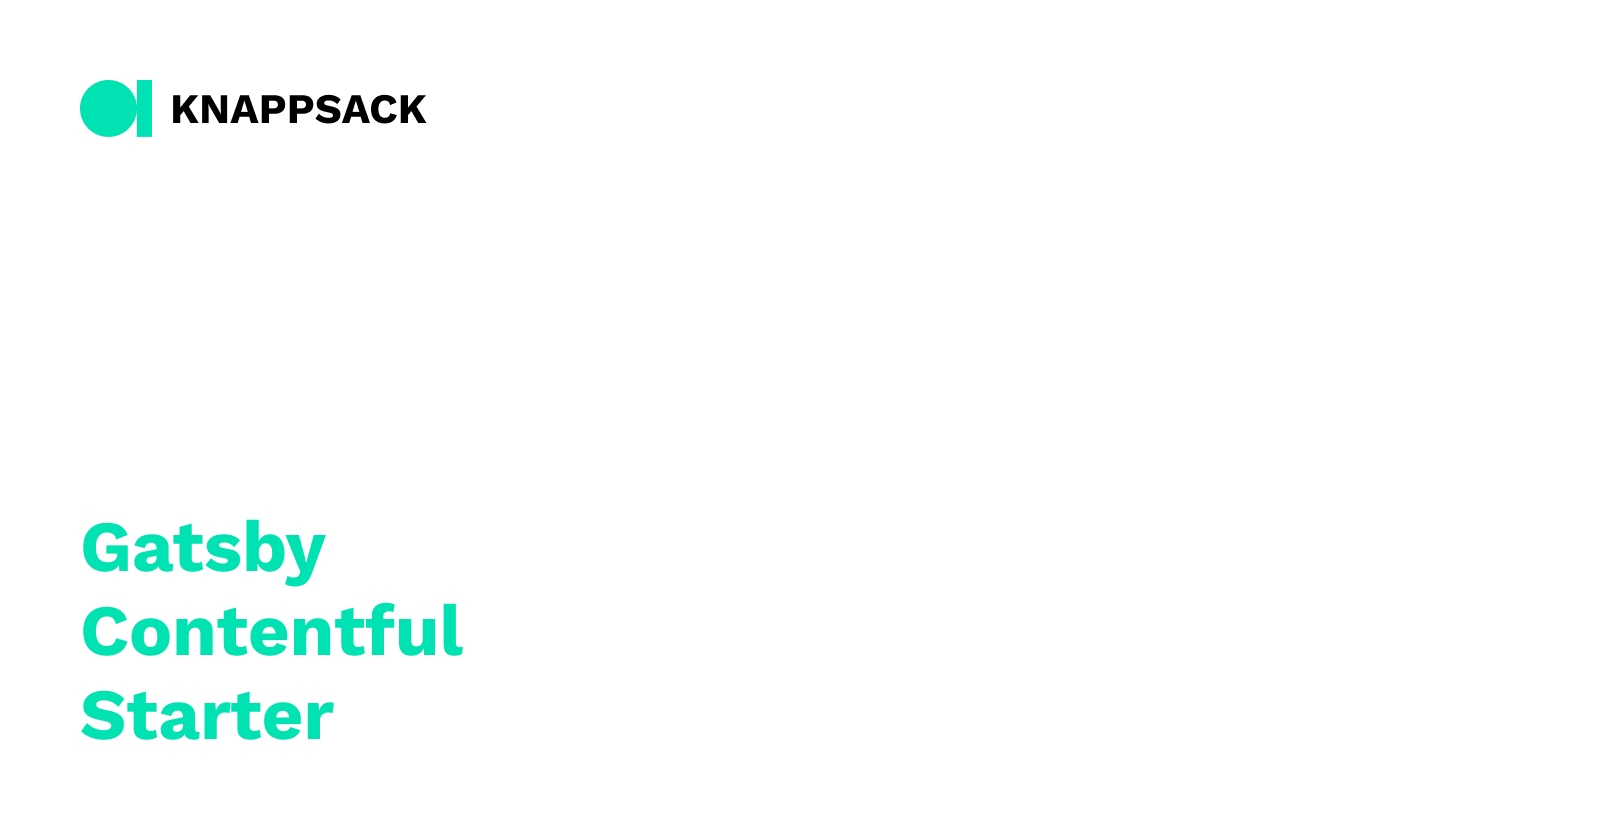
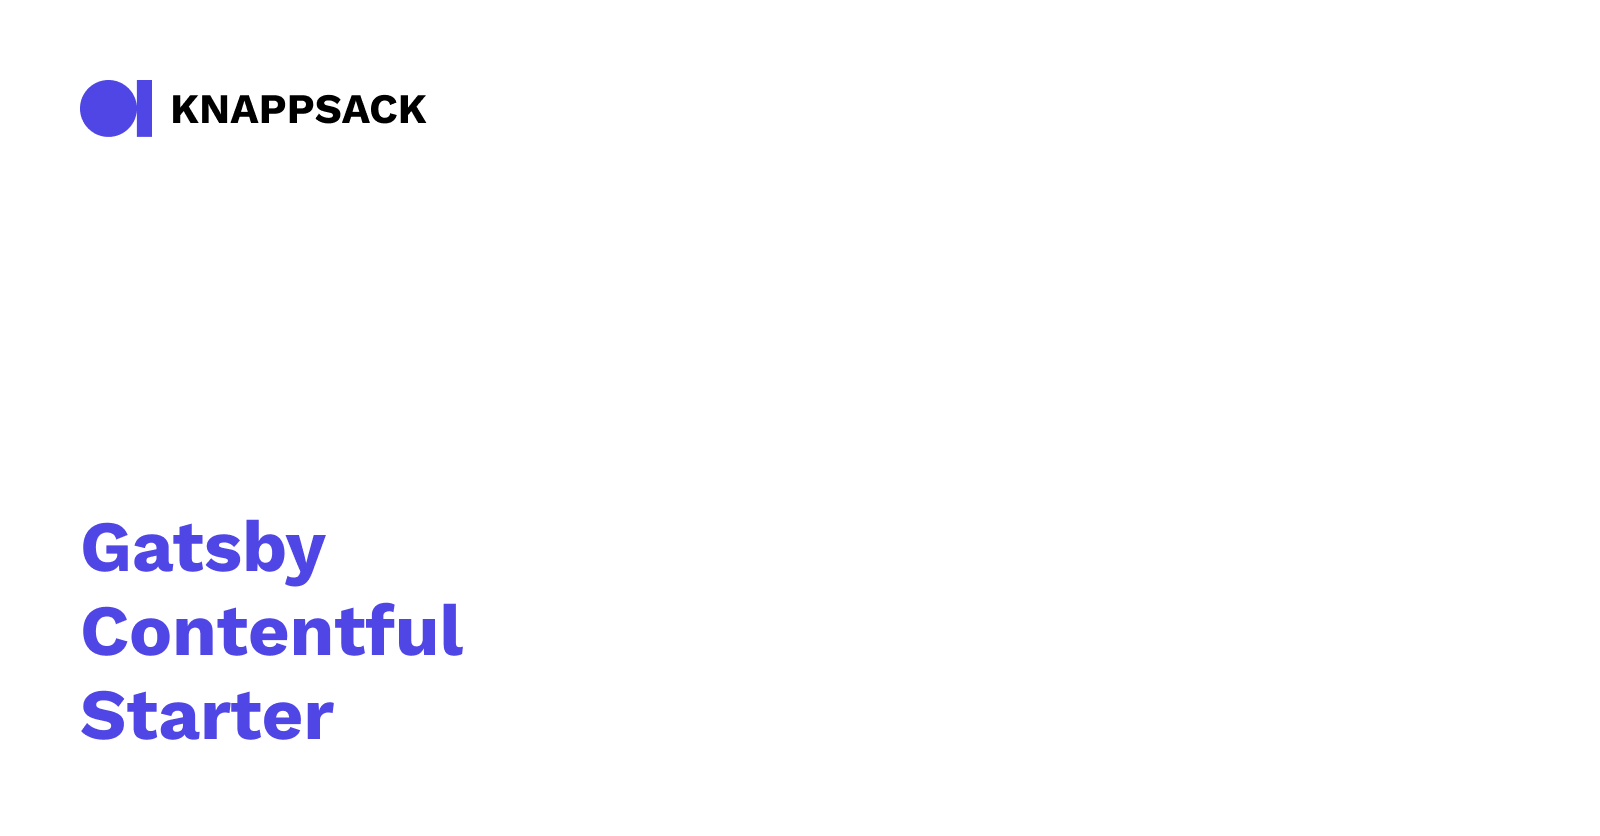
chore: update Theme colors

Changed region(s): [[0.0312, 0.622, 0.3125, 0.9019], [0.0312, 0.0933, 0.0938, 0.1866]]

diff --git a/src/components/models/navigation-header.tsx b/src/components/models/navigation-header.tsx
@@ -15,6 +15,7 @@ import { theme } from "../../styles/global-css-variables.css"
 import { Heading } from "../elements/heading"
 import { useWindowWidth } from "../../lib/use-window-width"
 import { mediaQuery } from "../../styles/media-query"
+import { focusStyles } from './text-section.styles'
 
 export type NavigationHeaderProps = UseTypesOf["div"] & {
   model: ContentfulNavigationSection
@@ -98,10 +99,11 @@ export const NavigationHeader = ({ model }: NavigationHeaderProps) => {
             aria-label={logo.title}
             css={{
               gridArea: "branding",
-              display: "inline-block",
-              width: 46,
+              display: "flex",
+              width: 42,
               height: "auto",
               margin: "auto 0",
+              ":focus": focusStyles,
             }}
             to="/"
           >
@@ -109,6 +111,12 @@ export const NavigationHeader = ({ model }: NavigationHeaderProps) => {
               alt={logo.description}
               src={`${logo.url}?w=150&fm=webp`}
               title={logo.title}
+              width={150}
+              height="auto"
+              css={{
+                display: "flex",
+                margin: "auto",
+              }}
             />
           </Link>
         )}

diff --git a/src/styles/global-css-variables.css.ts b/src/styles/global-css-variables.css.ts
@@ -1,18 +1,27 @@
 import { createGlobalTheme } from "@vanilla-extract/css"
-
+// bg-indigo-50	background-color: rgb(238 242 255);
+// bg-indigo-100	background-color: rgb(224 231 255);
+// bg-indigo-200	background-color: rgb(199 210 254);
+// bg-indigo-300	background-color: rgb(165 180 252);
+// bg-indigo-400	background-color: rgb(129 140 248);
+// bg-indigo-500	background-color: rgb(99 102 241);
+// bg-indigo-600	background-color: rgb(79 70 229);
+// bg-indigo-700	background-color: rgb(67 56 202);
+// bg-indigo-800	background-color: rgb(55 48 163);
+// bg-indigo-900	background-color: rgb(49 46 129);
 export const theme = createGlobalTheme(`:root`, {
+  /** @note https://tailwindcss.com/docs/background-color  */
   colors: {
-    border: "#d2d2d2",
-    current: "currentColor",
-    default: "#1d1d1f",
-    focus: "hsl(210deg 100% 49% / 60%)",
+    border: "rgba(0 0 0 / 10%)",
+    dark: "#1d1d1f",
+    focus: "rgba(165 180 252)",
     highlight: "#f92672",
-    hover: "#0077ed",
-    link: "#06c",
+    hover: "rgb(55 48 163)",
+    light: "rgb(255 255 255)",
+    link: "rgb(79 70 229)",
     section: "#f5f5f5",
     text: "#1d1d1f",
     transparent: "transparent",
-    unit: "#fff",
   },
   font: {
     family: {

diff --git a/src/components/models/navigation-sitemap.tsx b/src/components/models/navigation-sitemap.tsx
@@ -9,6 +9,7 @@ import { Analytics } from "../layout/analytics"
 import { Link } from "../elements/link"
 import { GridTemplate } from "../layout/grid-template"
 import type { UseTypesOf } from "../../lib/use-types-of"
+import { focusStyles } from "./text-section.styles"
 
 type ContainerProps = UseTypesOf["div"] & {
   options: NavigationSectionOptions
@@ -67,16 +68,24 @@ export const NavigationSitemap = ({ model }: NavigationSitemapProps) => {
             aria-label={logo.title}
             css={{
               gridArea: "branding",
-              display: "inline-block",
-              width: 54,
+              display: "flex",
+              width: 42,
               height: "auto",
+              marginBottom: "auto",
+              ":focus": focusStyles,
             }}
             to="/"
           >
             <img
               alt={logo.description}
-              src={`${logo.url}?fm=webp`}
+              src={`${logo.url}?w=150&fm=webp`}
               title={logo.title}
+              width={150}
+              height="auto"
+              css={{
+                display: "flex",
+                margin: "auto",
+              }}
             />
           </Link>
         )}

diff --git a/src/components/models/text-section.styles.ts b/src/components/models/text-section.styles.ts
@@ -8,9 +8,16 @@ const base: CSSObject = {
   lineHeight: 1.5,
 }
 
+export const focusStyles: CSSObject = {
+  borderRadius: 6,
+  outline: `${theme.colors.focus} solid 4px`,
+  outlineOffset: "4px",
+}
+
 const anchor: CSSObject = {
   color: theme.colors.link,
   textDecoration: "underline",
+  ':focus': focusStyles,
 }
 
 export const anchorStyles = () => {
@@ -28,7 +35,7 @@ const blockquote: CSSObject = {
   gap: 16,
   fontSize: theme.font.size.xlarge,
   fontStyle: "italic",
-  borderLeft: "4px solid silver",
+  borderLeft: `4px solid ${theme.colors.border}`,
   paddingLeft: 24,
   marginTop: 24,
   marginBottom: 24,
@@ -89,4 +96,12 @@ const code: CSSObject = {
 
 export const codeStyles = () => {
   return mediaQuery([base, code])
+}
+
+const hr: CSSObject = {
+  color: theme.colors.border,
+}
+
+export const hrStyles = () => {
+  return mediaQuery([base, hr])
 }

diff --git a/src/components/models/asset.tsx b/src/components/models/asset.tsx
@@ -3,6 +3,7 @@ import * as React from "react"
 
 import { useInView } from "react-intersection-observer"
 import { ContentfulAsset } from "../contentful/contentful-asset"
+import { focusStyles } from './text-section.styles'
 
 type GetAssetProps = {
   asset: ContentfulAsset
@@ -17,6 +18,7 @@ const assetStyles = (ratio: any, options: any) =>
     maxWidth: "100%",
     aspectRatio: ratio && options.aspectRatio[ratio],
     objectFit: "cover",
+    ':focus': focusStyles,
   } as CSSObject)
 
 export const getAsset = ({
@@ -70,7 +72,6 @@ export const getAsset = ({
 
     return (
       <video
-        data-style="video"
         css={assetStyles(ratio, options)}
         poster={poster}
         controls

diff --git a/src/lib/create-jump-link.tsx b/src/lib/create-jump-link.tsx
@@ -3,6 +3,7 @@ import * as React from "react"
 import slugify from "@sindresorhus/slugify"
 import type { Block, Inline } from "@contentful/rich-text-types"
 import type { UseTypesOf } from "./use-types-of"
+import { focusStyles } from '../components/models/text-section.styles'
 
 type CreateJumpLinkProps = UseTypesOf["a"] & {
   node: Block | Inline
@@ -19,7 +20,7 @@ export const createJumpLink = ({ node, children }: CreateJumpLinkProps) => {
   const slug = slugify(value)
 
   return (
-    <a id={slug} href={`#` + slug}>
+    <a id={slug} css={{':focus': focusStyles}} href={`#` + slug}>
       {children}
     </a>
   )

diff --git a/src/components/elements/action.styles.ts b/src/components/elements/action.styles.ts
@@ -26,7 +26,7 @@ const base: CSSObject = {
 const variants: Variants<VariantStyle> = {
   primary: {
     backgroundColor: theme.colors.link,
-    color: theme.colors.unit,
+    color: theme.colors.light,
     border: `1px solid ${theme.colors.transparent}`,
     borderColor: theme.colors.link,
     ":hover": {
@@ -39,7 +39,7 @@ const variants: Variants<VariantStyle> = {
     border: `1px solid ${theme.colors.transparent}`,
     borderColor: theme.colors.link,
     ":hover": {
-      borderColor: theme.colors.focus,
+      borderColor: theme.colors.hover,
     },
   },
   link: {

diff --git a/src/components/models/text-section.tsx b/src/components/models/text-section.tsx
@@ -106,12 +106,11 @@ const options: OptionsProps = links => {
       [BLOCKS.QUOTE]: (node, children) => (
         <blockquote css={styles.blockquoteStyles}>{children}</blockquote>
       ),
-      [BLOCKS.HR]: () => <hr data-style="hr" />,
+      [BLOCKS.HR]: () => <hr css={styles.hrStyles} />,
       [BLOCKS.EMBEDDED_ASSET]: node => {
         const asset = contentfulAssetMap.get(node.data.target.sys.id)
         return (
           <img
-            data-style="img"
             src={asset.url + `?q=90&w=1360`}
             alt={asset.description}
           />

diff --git a/src/components/models/navigation-footer.styles.ts b/src/components/models/navigation-footer.styles.ts
@@ -1,6 +1,7 @@
 import { CSSObject } from "@emotion/react"
 import { theme } from "../../styles/global-css-variables.css"
 import { mediaQuery } from "../../styles/media-query"
+import { focusStyles } from "./text-section.styles"
 
 const legal: CSSObject = {
   display: "flex",
@@ -26,6 +27,10 @@ export const copyrightStyles = () => {
 
 const supporter: CSSObject = {
   textDecoration: "underline",
+  ":hover": {
+    color: theme.colors.hover,
+  },
+  ":focus": focusStyles,
 }
 
 export const supporterStyles = () => {

diff --git a/src/components/layout/analytics.styles.ts b/src/components/layout/analytics.styles.ts
@@ -25,7 +25,9 @@ const base: CSSObject = {
   // "@media (prefers-color-scheme: dark)": {
   //   backgroundColor: theme.colors.text,
   // },
-  backgroundColor: theme.colors.section,
+  // '&[data-theme="dark"]': {
+  //   backgroundColor: theme.colors.dark,
+  // },
   paddingLeft: theme.spacing.large,
   paddingRight: theme.spacing.large,
 }

diff --git a/src/components/models/topic.styles.ts b/src/components/models/topic.styles.ts
@@ -13,7 +13,7 @@ const base: CSSObject = {}
 const variants: Variants<VariantStyle> = {
   ...topicVariantContract,
   card: {
-    backgroundColor: theme.colors.unit,
+    backgroundColor: theme.colors.light,
     border: theme.colors.border,
     borderRadius: 4,
     boxShadow: `0px 0px 16px ${theme.colors.border}`,

diff --git a/src/components/elements/skip-to-content.styles.ts b/src/components/elements/skip-to-content.styles.ts
@@ -3,7 +3,7 @@ import { theme } from "../../styles/global-css-variables.css"
 
 export const skipToContentStyles: CSSObject = {
   background: theme.colors.link,
-  color: theme.colors.unit,
+  color: theme.colors.light,
   fontFamily: theme.font.family.body,
   fontSize: theme.font.size.default,
   left: 24,
